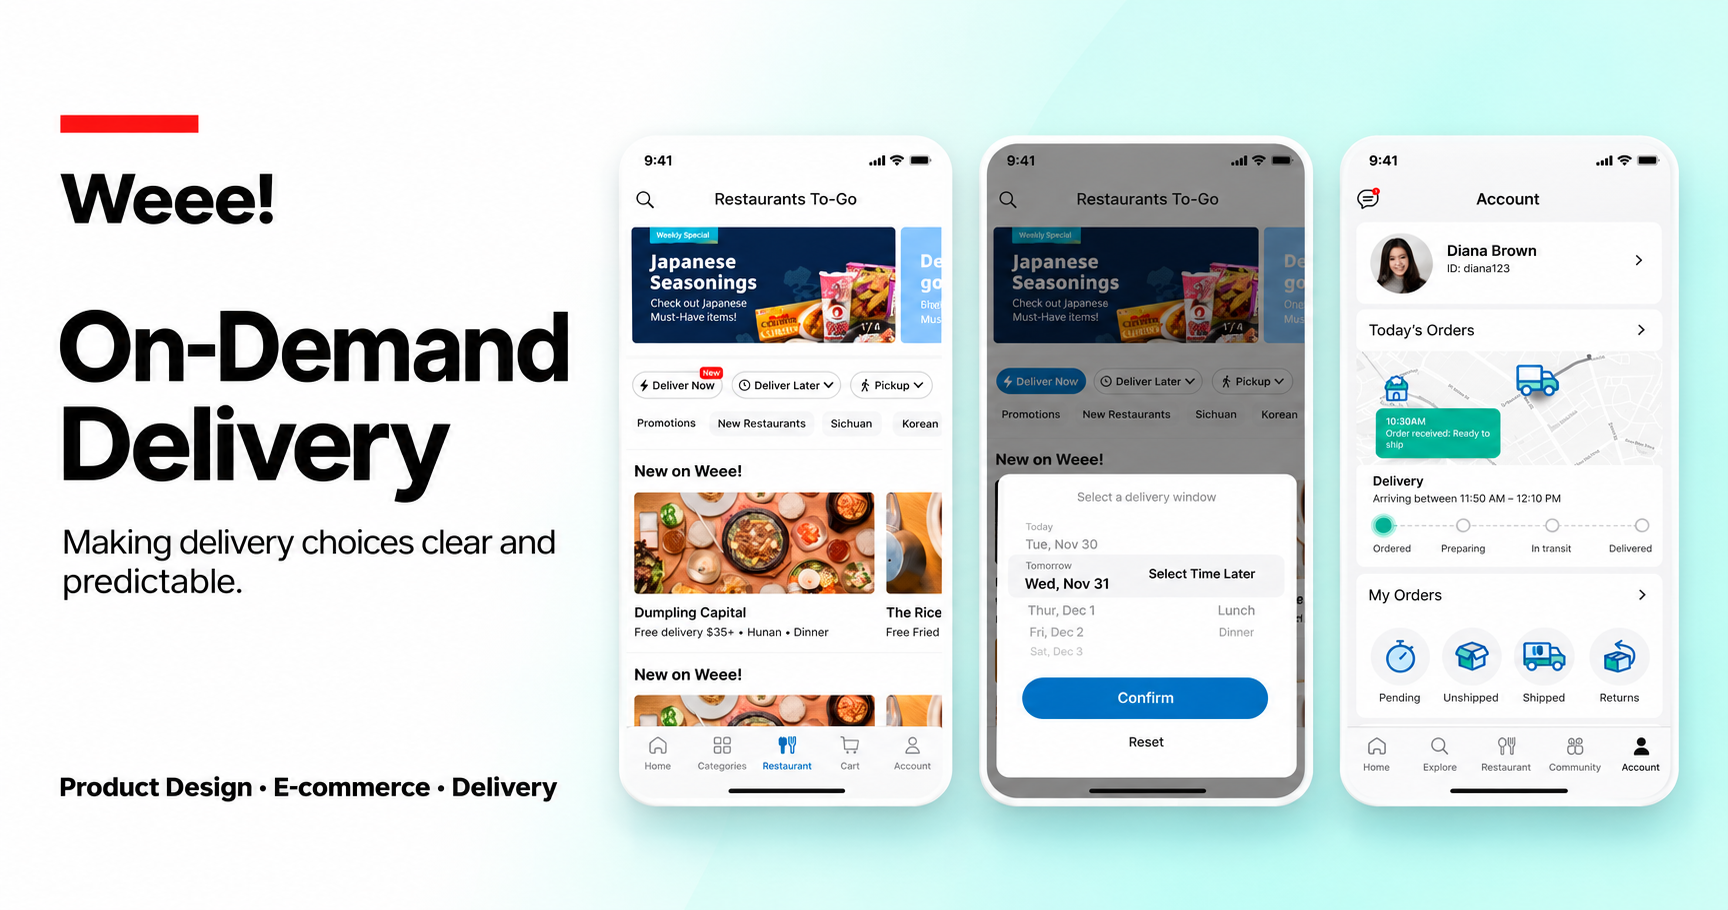
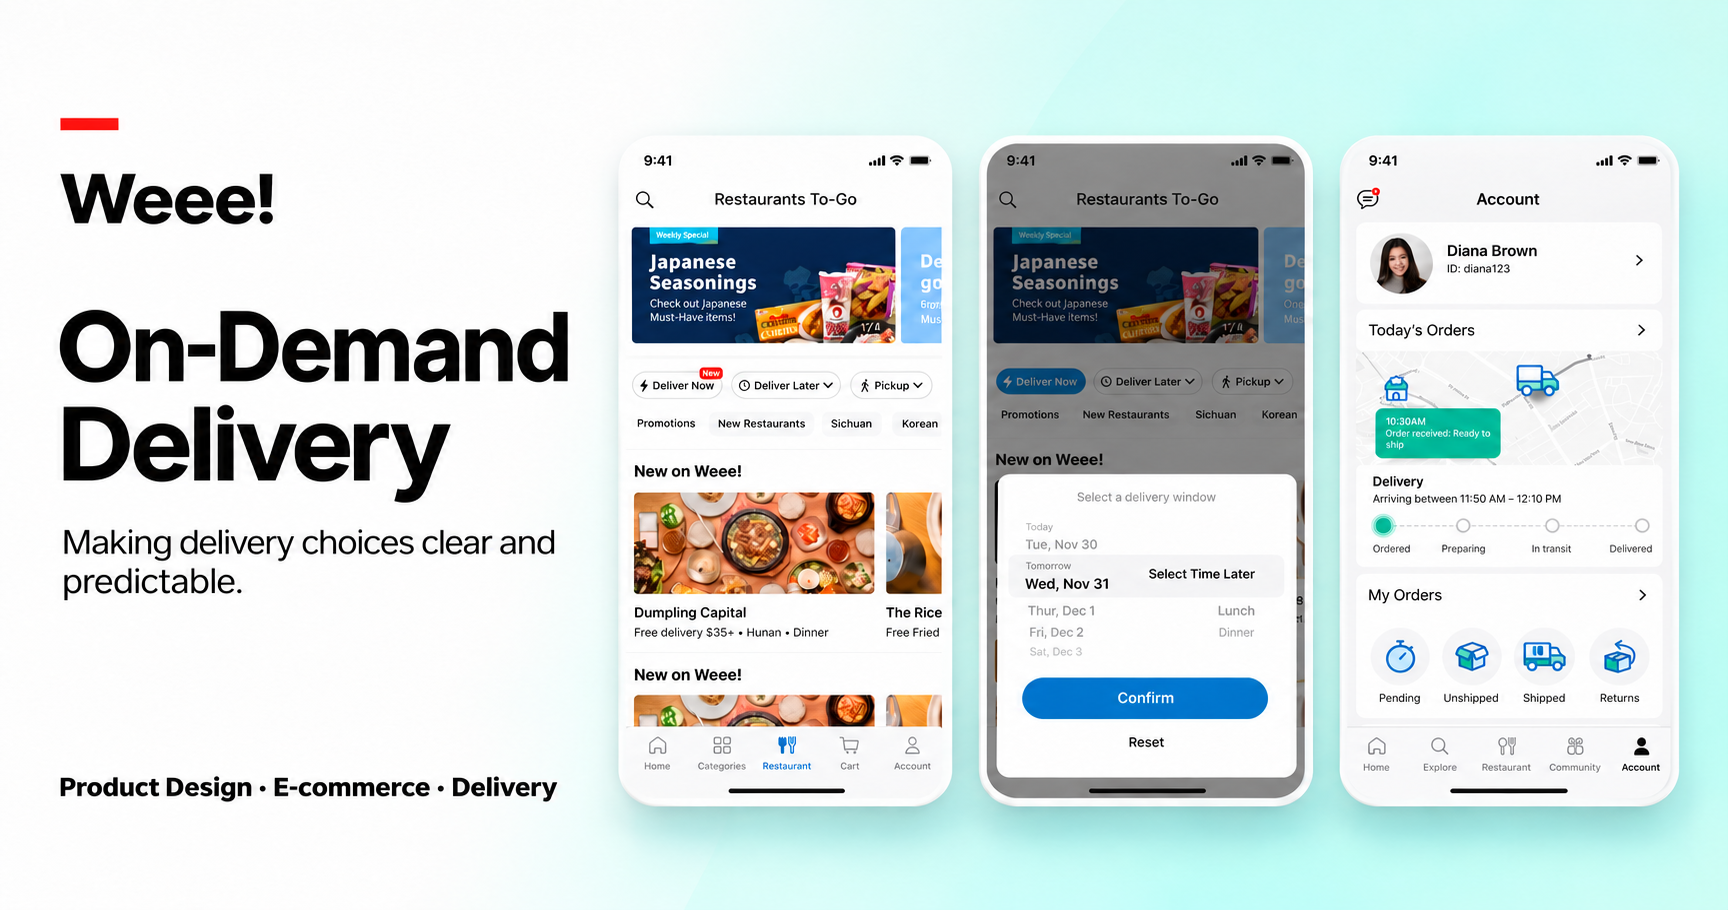
Update Weee hero with approved shorter red accent

diff --git a/js/data.js b/js/data.js
@@ -379,7 +379,7 @@ window.SITE = {
       case: {
         headline: "Making on-demand delivery clear—without hiding restaurant choice",
         lead: "I designed how Weee! introduced on-demand delivery alongside scheduled delivery and pickup, helping customers understand their options while keeping the broader restaurant selection visible.",
-        cover: "images/weee/cover.webp?v=original-hd1",
+        cover: "images/weee/cover.webp?v=short-red-hero",
         aboutTitle: "A new delivery option. A new decision for customers.",
         about: [
           "Weee!’s Restaurant To-Go (RTG) experience originally required customers to schedule delivery or pickup at least one day in advance. Following Weee!’s acquisition of RICEPO, the team introduced on-demand delivery so customers could also order a meal for now.",

diff --git a/project.html b/project.html
@@ -13,7 +13,7 @@
 <body data-page="project">
   <div id="app"></div>
   <script src="js/analytics.js?v=ord1"></script>
-  <script src="js/data.js?v=approved-hd2"></script>
+  <script src="js/data.js?v=short-red-hero"></script>
   <script src="js/main.js?v=ord1"></script>
   <script src="js/weee-image-viewer.js?v=1"></script>
 </body>
